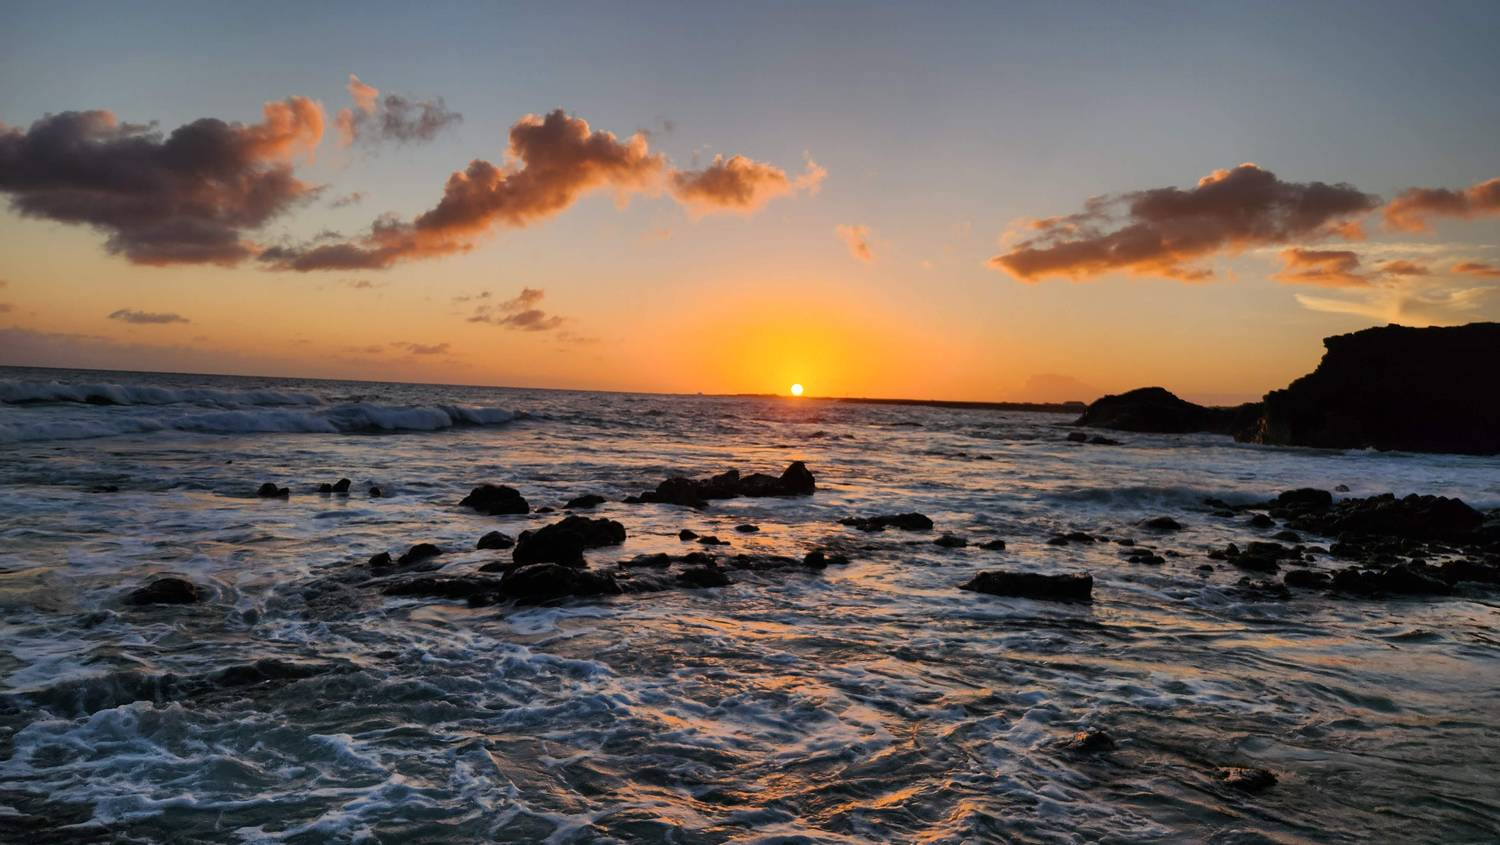
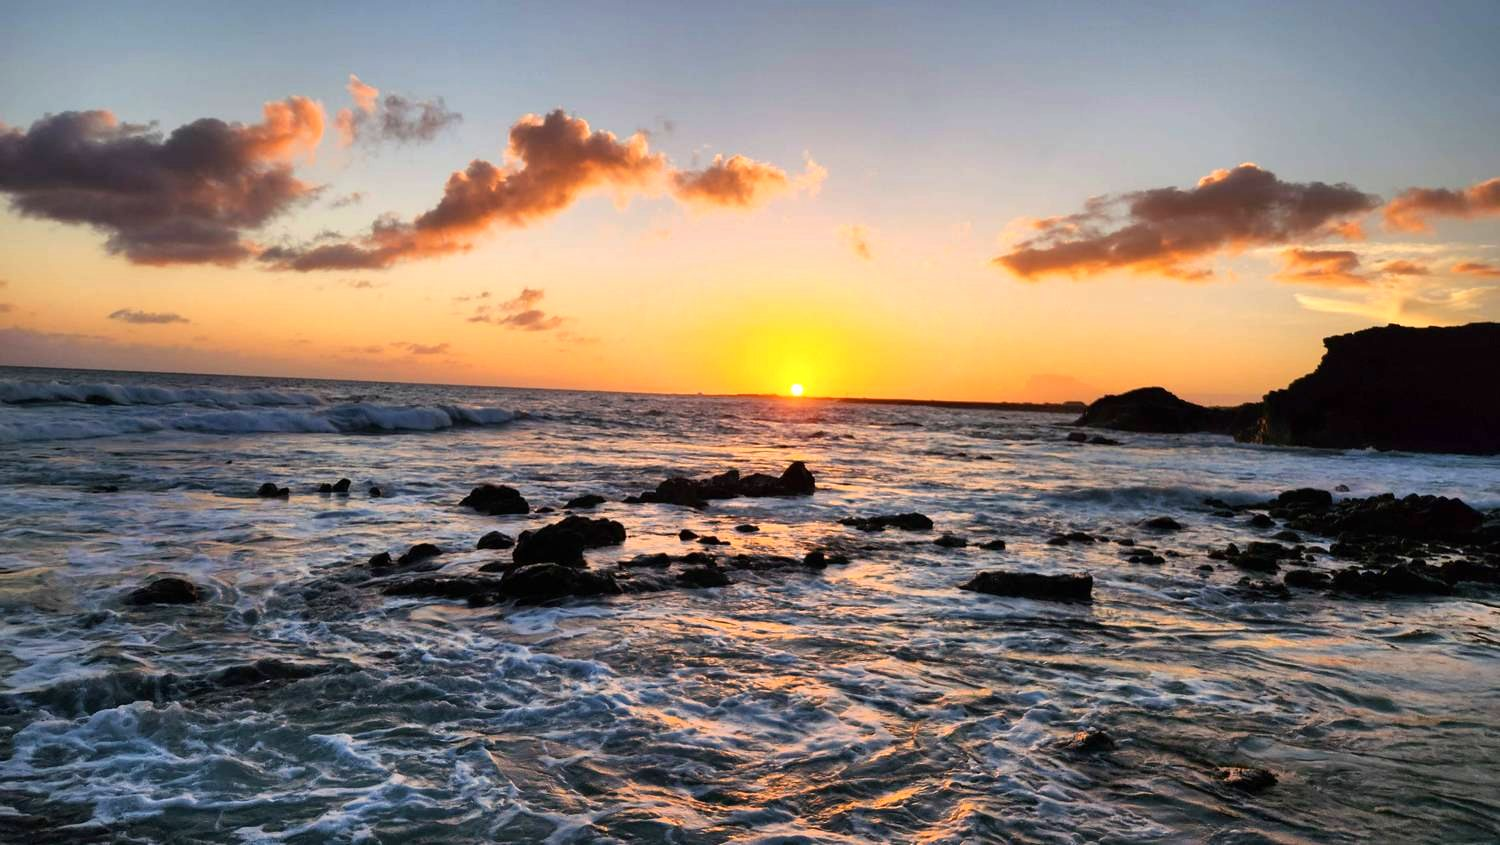
Light-edit pass: set white points on flat Fuji frames
El Capitan zoom set (one identical move across all three so the zoom
stays seamless) and the Glass Beach sunset. White point only; blacks
untouched, no clipping. Fog, dusk, cave, and shade frames left as shot.

diff --git a/build/STATUS.md b/build/STATUS.md
@@ -37,7 +37,14 @@ Add a tile for each finished trip; placeholders exist for unfinished ones.
    is soft: a phone at full zoom through fume at dusk. It is the only photo of
    the glowing lava lake. Options: keep it as a record shot, swap in the sharp
    `halemaumau.jpg` from the same evening, or drop the then-and-now.
-2. **Light-edit pass on other trips?** `check_photos.py` flags darker frames on
+2. ~~Light-edit pass~~ Done September 30. Joe's real complaint was highlights
+   that never reach white (straight Fuji JPEGs topping out near 70%), not dark
+   shadows. Fix is a white-point move only, blacks untouched, no clipping:
+   Tunnel View (all copies site-wide, same curve), the El Capitan zoom set (one
+   identical move on all three so the zoom stays seamless), Kauaʻi Glass Beach
+   sunset. Left alone on purpose: cave, dusk, deep shade, backlit oaks, cold
+   morning haze, and the North Coast fog (straight from camera; Joe likes fog).
+   Original note: **Light-edit pass on other trips?** `check_photos.py` flags darker frames on
    Kauaʻi, the Big Island, and Yosemite. Some are dark on purpose (cave, dusk);
    Yosemite's Tunnel View and Valley View may be Joe's finished edits. Ask
    before touching.
